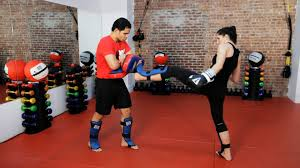
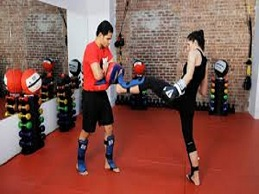
resize immagine kick e css
da fare:aggiungere info al database per IA dell AllPages
modificato:percorso kick-database

diff --git a/client/js/customjs.js b/client/js/customjs.js
@@ -41,6 +41,7 @@ function callToDB(what){
                else if(typeOfPage==1){createPageCourse(JSON.parse(response))}
                if(typeOfPage==2){createPageLocation(JSON.parse(response))}
                else if(typeOfPage==3){createPageAllCourseByName(JSON.parse(response))}
+               else if(typeOfPage==4){createPageAllCourseByName(JSON.parse(response))}
               else console.log("nulla da fare")
         
         },
@@ -686,7 +687,7 @@ console.log(idWheretoPutIt)
 var cont=document.createElement('div');
           cont.setAttribute('class','thumbnail  col-xs-12 col-sm-6 col-md-6 col-ld-6')
                             var el="";
-                            el+="<img src='"+server+JSON.coursePic+"'width='50%' class='col-xs-12 col-sm-6 col-md-6 col-ld-6'>";
+                            el+="<img src='"+server+JSON.coursePic+"'width='100px' class='col-xs-12 col-sm-6 col-md-6 col-ld-6'>";
                             el+="<div class='right-caption col-xs-6 col-*-3'>";
                             el+="<a  href='' ><h4 id='LINK"+JSON.id+"'>"+JSON.title+"</h4></a>";
                             el+="</div>";
@@ -862,7 +863,7 @@ function createPageLocation(JSON){
                             showPageA2A(0,2);
                             createTextwithTitle(JSON.whereweare,"WHERE WE ARE","page0");
                             createTextwithTitle(JSON.howtogethere,"HOW TO GET THERE","page0");
-                            createGoogleMaps("page0");
+                            createGoogleMaps(JSON.map,"page0");
                             createTextwithTitle(JSON.howtogethere,"CONTACT US","page1");
                             bindLink(true,2)
                            
@@ -937,7 +938,7 @@ function createPageAllCourseByName(JSON){
 
 
 }
-function createPageAllCourseByLevel(JSON){}
+
 
 
 //------------------------------------------------------------------
@@ -945,14 +946,21 @@ function createPageAllCourseByLevel(JSON){}
 //API FACEBOOK/TWITTER/GOOGLE MAPS
 
 
-function initialize() {
+function initialize(var1,var2) {
+    var myLatlng = new google.maps.LatLng(var1,var2);
   var mapOptions = {
-    zoom: 8,
-    center: new google.maps.LatLng(-34.397, 150.644)
-  };
-
+    zoom: 16,
+    center: myLatlng
+            };
+ 
   var map = new google.maps.Map(document.getElementById('map-canvas'),
       mapOptions);
+    
+var marker = new google.maps.Marker({
+      position: myLatlng,
+      map: map,
+      title: 'Big GYM!!!'
+  });
  document.getElementById('map-canvas').setAttribute('overflow','visible')   
     
 }
@@ -960,13 +968,15 @@ function initialize() {
 
 
 
-function createGoogleMaps(idwhereToPutIt){
-
+function createGoogleMaps(coordinates,idwhereToPutIt){
+            console.log("prima:"+coordinates+"*")
+            var cor=coordinates.split(',');
+            console.log(cor)
              var div=document.createElement('div');
              div.setAttribute('id','map-canvas')
              document.getElementById(idwhereToPutIt).appendChild(div);
-             
-             initialize() 
+             var value = parseFloat("554,20".replace(",", "."));
+             initialize(parseFloat(cor[0]),parseFloat(cor[1])) 
 
                     }
 

diff --git a/client/css/simple-sidebar.css b/client/css/simple-sidebar.css
@@ -38,16 +38,17 @@
 }
 
 #page-content-wrapper {
-    width: 95%;
+    width: 100%;
     position: absolute;
     margin-left: 10px;
- 
+    margin-right: 10px;
 }
 
 #wrapper.toggled #page-content-wrapper {
     position: absolute;
     margin-right: -250px;
     padding-left:10px;
+    
 }
 
 /* Sidebar Styles */
@@ -121,11 +122,13 @@
     }
 
     #page-content-wrapper {
+        width: 100%;
         padding: 20px;
         position: relative;
     }
 
     #wrapper.toggled #page-content-wrapper {
+        
         position: relative;
         margin-right: 0;
     }

diff --git a/client/css/stylesheet.css b/client/css/stylesheet.css
@@ -54,9 +54,9 @@ px
     padding-left: 10px;
         }
 
- html, body, #map-canvas {
+ #map-canvas {
         height: 300px;
-        width: 88%;
+        
         margin: 1px;
         padding: 1px
       }
